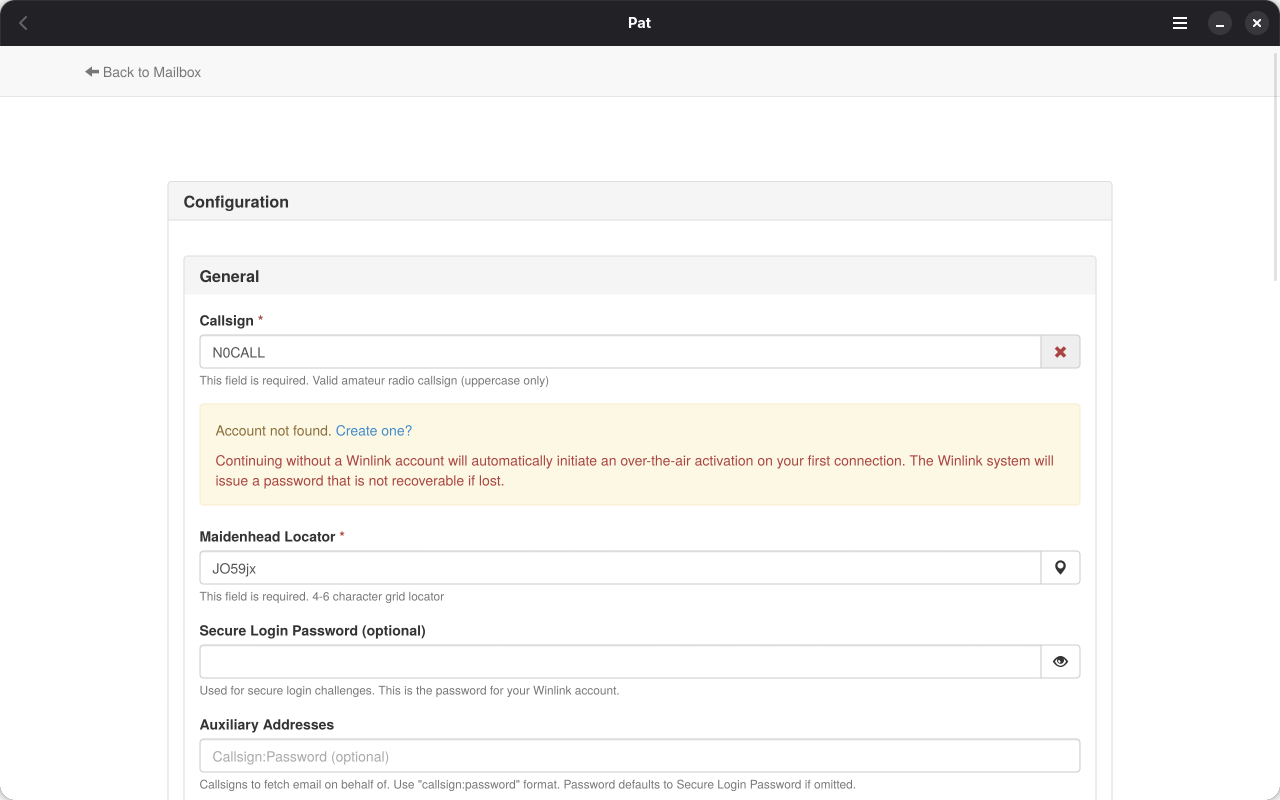
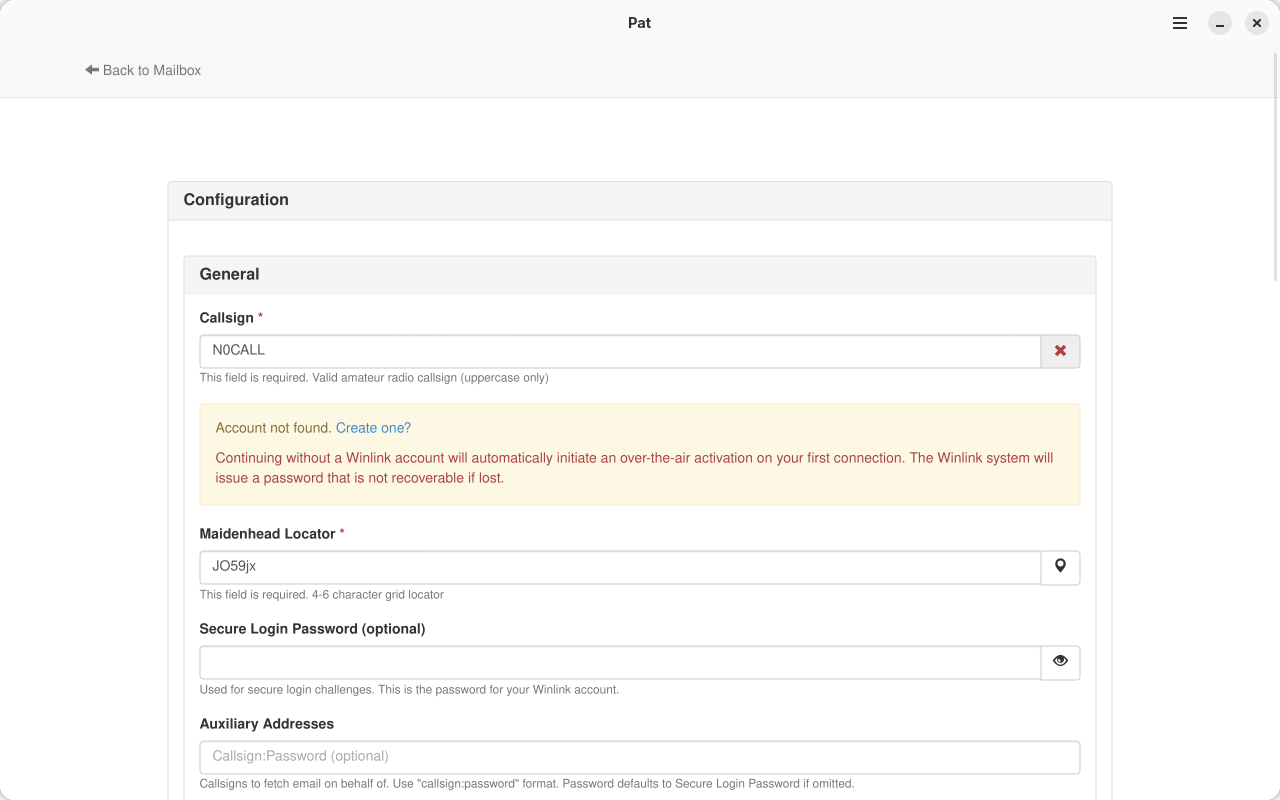
Keep the window light and drop the back button
Pat's web UI has no dark theme, so the header bar now stays light to
match it. Pat's own UI already provides navigation.

diff --git a/pat_desktop/window.py b/pat_desktop/window.py
@@ -25,7 +25,6 @@ CONTENT_RULES = json.dumps([
     {"trigger": {"url-filter": "/api/new-release-check"}, "action": {"type": "block"}},
 ])
 
-
 def _web_dirs():
     data = os.path.join(GLib.get_user_data_dir(), "pat-desktop", "webkit")
     cache = os.path.join(GLib.get_user_cache_dir(), "pat-desktop", "webkit")
@@ -60,9 +59,6 @@ class PatWindow(Adw.ApplicationWindow):
         self.title = Adw.WindowTitle(title="Pat")
         header = Adw.HeaderBar(title_widget=self.title)
 
-        self.back_button = Gtk.Button(icon_name="go-previous-symbolic",
-                                      tooltip_text=_("Back"), action_name="win.back")
-        header.pack_start(self.back_button)
 
         menu = Gio.Menu()
         section = Gio.Menu()
@@ -132,8 +128,6 @@ class PatWindow(Adw.ApplicationWindow):
         self.webview.set_zoom_level(state.get("zoom", 1.0))
         self.webview.connect("load-failed", self._on_load_failed)
         self.webview.connect("web-process-terminated", lambda v, _r: v.reload())
-        self.webview.connect("notify::uri", lambda *_: self._update_nav())
-        self.webview.connect("load-changed", lambda *_: self._update_nav())
         self.stack.add_named(self.webview, "web")
 
     def _setup_view(self, view):
@@ -156,9 +150,7 @@ class PatWindow(Adw.ApplicationWindow):
             action = Gio.SimpleAction.new(name, None)
             action.connect("activate", lambda *_: callback())
             self.add_action(action)
-            return action
 
-        self.back_action = add("back", self.webview.go_back)
         add("reload", self._reload)
         add("configure", lambda: self._open_path("/ui/config"))
         add("zoom-in", lambda: self._zoom(+1))
@@ -253,9 +245,6 @@ class PatWindow(Adw.ApplicationWindow):
     def _reload(self):
         if self.backend.state == "running":
             self.webview.reload()
-
-    def _update_nav(self):
-        self.back_action.set_enabled(self.webview.can_go_back())
 
     def _launch_external(self, uri):
         Gtk.UriLauncher.new(uri).launch(self, None, None, None)

diff --git a/pat_desktop/application.py b/pat_desktop/application.py
@@ -17,7 +17,6 @@ from .backend import PatBackend, pat_version  # noqa: E402
 SHORTCUTS = [
     ("win.reload", ["<Control>r", "F5"], _("Reload")),
     ("win.configure", ["<Control>comma"], _("Pat configuration")),
-    ("win.back", ["<Alt>Left"], _("Back")),
     ("win.zoom-in", ["<Control>plus", "<Control>equal"], _("Zoom in")),
     ("win.zoom-out", ["<Control>minus"], _("Zoom out")),
     ("win.zoom-reset", ["<Control>0"], _("Reset zoom")),
@@ -36,6 +35,8 @@ class PatDesktop(Adw.Application):
 
     def do_startup(self):
         Adw.Application.do_startup(self)
+        # Pat's web UI has no dark theme, so keep the window chrome light too.
+        Adw.StyleManager.get_default().set_color_scheme(Adw.ColorScheme.FORCE_LIGHT)
         for name, callback in (("about", self._about), ("quit", self._quit),
                                ("shortcuts", self._shortcuts)):
             action = Gio.SimpleAction.new(name, None)
